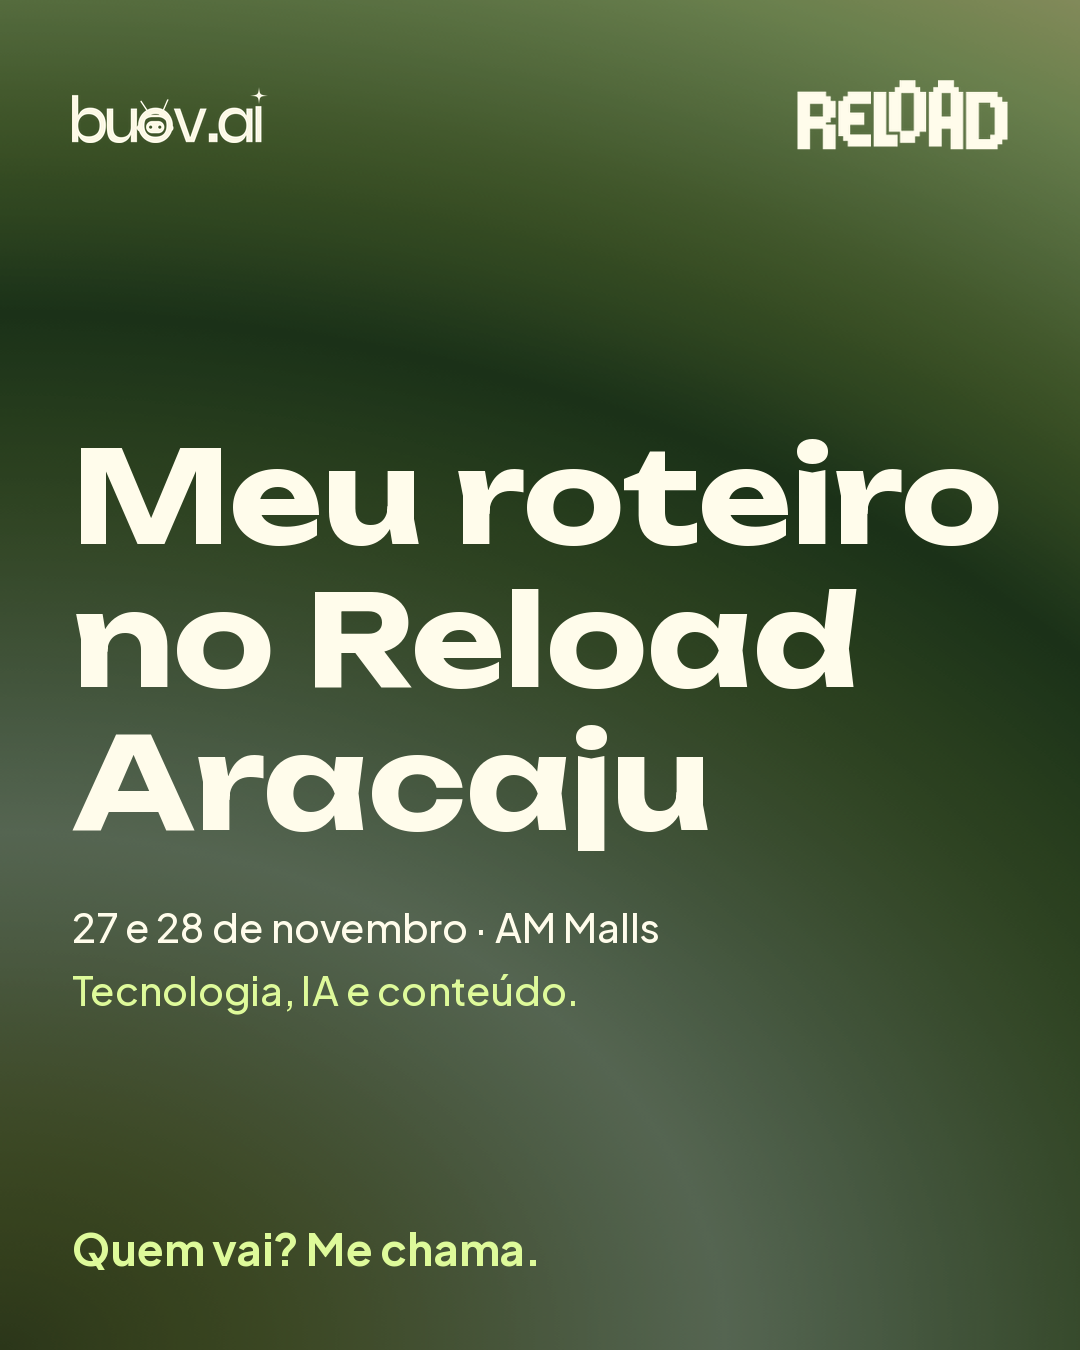
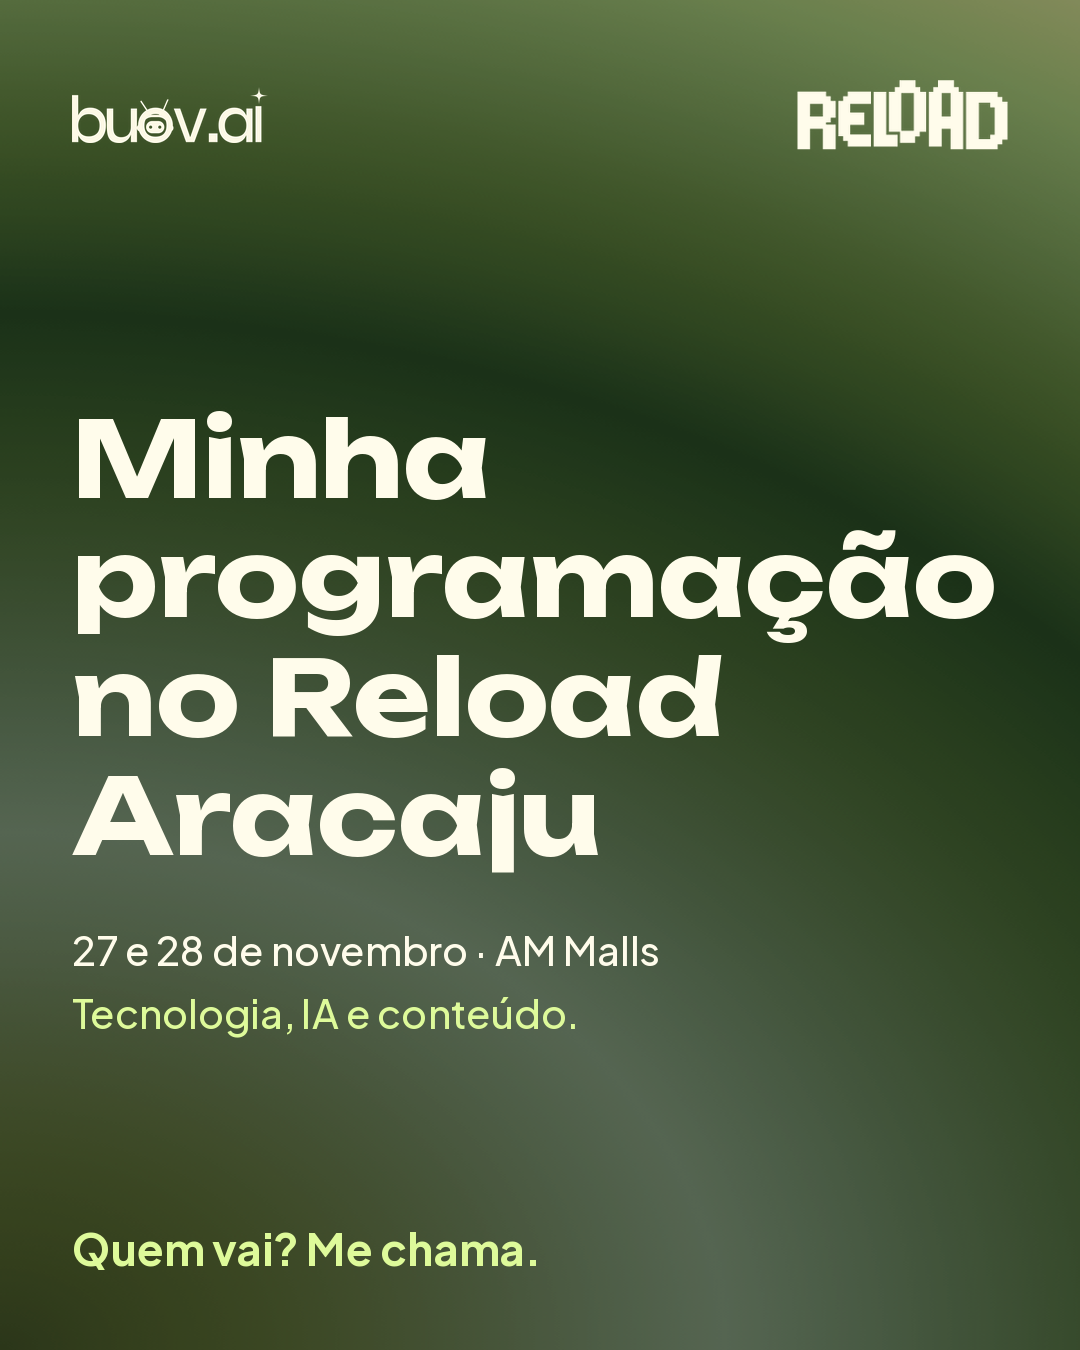
Retitle Reload carousel cover to "Minha programação"
Claude-Session: https://claude.ai/code/session_01SMCD1Nu91ZA4PGqpq7Y4bt

Changed region(s): [[0.0611, 0.28, 0.9472, 0.7778]]

diff --git a/stories-reload/make.py b/stories-reload/make.py
@@ -1,5 +1,5 @@
 #!/usr/bin/env python3
-"""Gera o carrossel de feed (5 posts, 1080x1350, formato 4:5) do roteiro no Reload Sebrae Aracaju.
+"""Gera o carrossel de feed (5 posts, 1080x1350, formato 4:5) da minha programação no Reload Sebrae Aracaju.
 
 Uso (a partir da raiz do repositório ou de qualquer lugar):
     pip install pillow cairosvg fonttools brotli
@@ -187,7 +187,7 @@ def cover():
     d = ImageDraw.Draw(img)
     paste_logos(img, dark_bg=True)
 
-    lines = ["Meu roteiro", "no Reload", "Aracaju"]
+    lines = ["Minha", "programação", "no Reload", "Aracaju"]
     size = 132
     while max(font("u", 700, size).getlength(l) for l in lines) > W - 2 * MX:
         size -= 2
